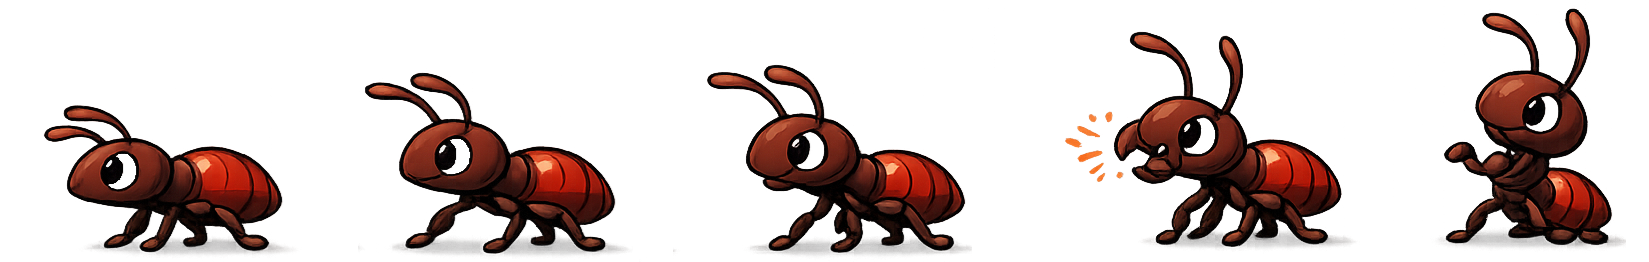
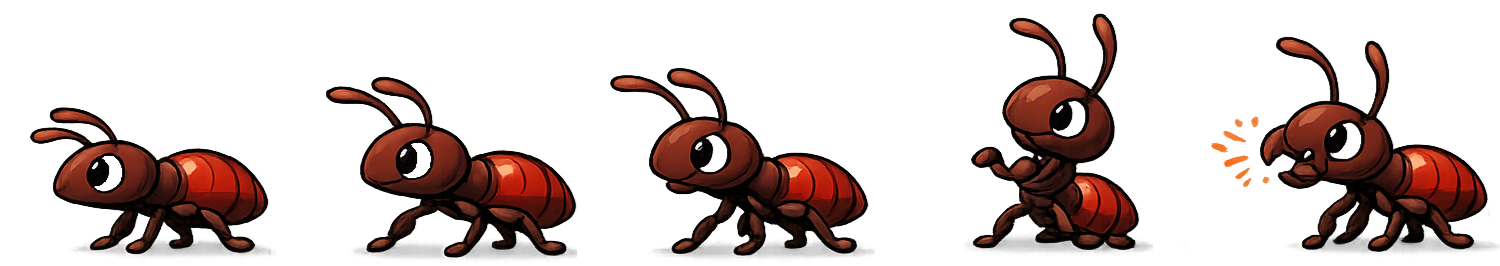
Sprites size fixed Ants - ground collition fixed

diff --git a/apps/web/main.js b/apps/web/main.js
@@ -21,6 +21,9 @@ const config = {
 let player;
 let cursors;
 let ground;
+let antGround;
+
+const ANT_GROUND_COLLISION_OFFSET_Y = 90;
 
 //shooting
 let spaceKey;
@@ -40,7 +43,7 @@ function preload() {
     this.load.image("shoot", "../../packages/assets/shoot.png");
     this.load.spritesheet("ladybug",
         "../../packages/assets/ladybug.png", {
-        frameWidth: 300, frameHeight: 210
+        frameWidth: 320, frameHeight: 210
     });
 
     // ant spring
@@ -63,6 +66,18 @@ function create() {
     ground.refreshBody();
     ground.body.setOffset(0, 0);
 
+    // Separate collision plane for ants so their feet align with visual ground.
+    antGround = this.physics.add.staticImage(
+        ground.x,
+        ground.y + ANT_GROUND_COLLISION_OFFSET_Y,
+        "ground"
+    );
+    antGround.displayWidth = ground.displayWidth;
+    antGround.displayHeight = ground.displayHeight;
+    antGround.setVisible(false);
+    antGround.refreshBody();
+    antGround.body.setOffset(0, 0);
+
     player = this.physics.add.sprite(200, 0, "ladybug");
     player.setCollideWorldBounds(true);
     player.body.setGravityY(200);
@@ -75,9 +90,9 @@ function create() {
     // ant2.body.setGravityY(200);
     // enemies
     ants = this.physics.add.group();
-    this.physics.add.collider(ants, ground);
+    this.physics.add.collider(ants, antGround);
     this.time.addEvent({
-        delay: 10000,
+        delay: 5000,
         callback: createAnts,
         callbackScope: this,
         loop: true
@@ -111,15 +126,18 @@ function create() {
 
     this.anims.create({
         key: 'up',
-        frames: this.anims.generateFrameNumbers('ladybug', { start: 3, end: 5 }),
+        frames: this.anims.generateFrameNumbers('ladybug', { start: 3, end: 4 }),
         frameRate: 5,
         repeat: 2
     });
 
     this.anims.create({
         key: 'ant-walk',
-        frames: this.anims.generateFrameNumbers('ant', { start: 1, end: 3 }),
-        frameRate: 8,
+        // frames: this.anims.generateFrameNumbers('ant', { start: 0, end: 3 }),
+        // frameRate: 10,
+        // Keep only walk-cycle frames; later frames are non-walk poses.
+        frames: this.anims.generateFrameNumbers('ant', { frames: [0, 1, 2, 3, 4, 3, 2, 1] }),
+        frameRate: 5,
         repeat: -1
     });
 
@@ -138,11 +156,11 @@ function shoot() {
 
 //create enemy
 function createAnts() {
-    const ant = ants.create(config.width + 120, 0, "ant");
+    const ant = ants.create(config.width, 0, "ant");
     ant.body.setGravityY(200);
     ant.setVelocityX(-120);
     ant.anims.play('ant-walk', true);
-    ant.setScale(0.25);
+    ant.setScale(0.50);
 }
 
 
